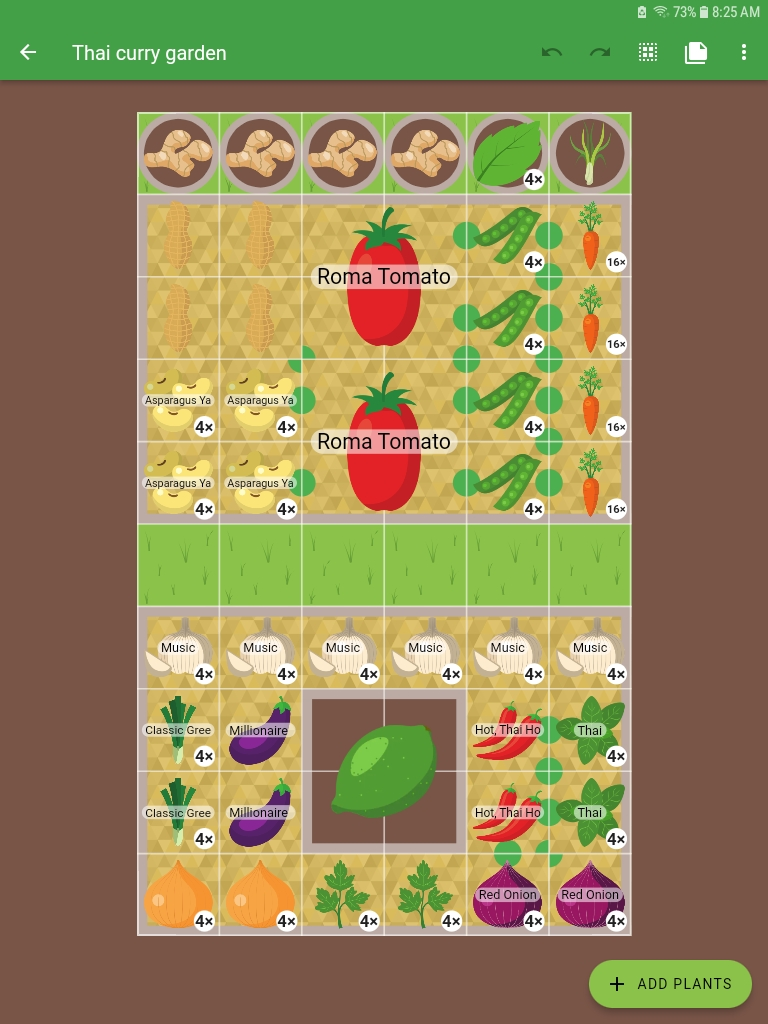
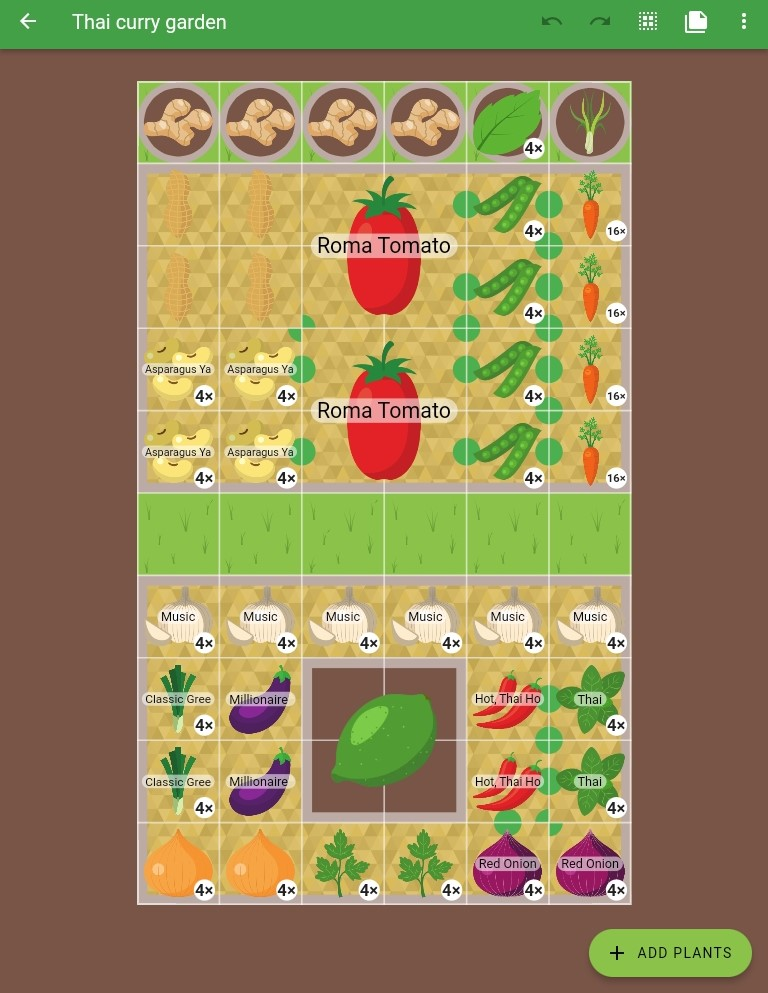
Update Blog post “curry-garden-plan/index”

diff --git a/content/posts/curry-garden-plan/index.md b/content/posts/curry-garden-plan/index.md
@@ -15,7 +15,7 @@ alt = "A plate with a curry dish surrounded by fresh vegetables and a tablet sho
 +++
 While there are many factors to consider when planning a garden, it's important to plan based on the types of dishes you and your family enjoy preparing. If you and your family enjoy cooking food with a global flair, you might want to consider planning a ‘curry garden’.
 
-‘Curry’ is actually a loose, catch-all term that doesn’t properly refer to any specific dish. In its originating culture, each dish would have its own unique name. That being said, many dishes that could be loosely grouped as ‘curry-style’ dishes can be created using many of the same core plants in the garden. <Add intro to plans>
+‘Curry’ is actually a loose, catch-all term that doesn’t properly refer to any specific dish. In its originating culture, each dish would have its own unique name. That being said, many dishes that could be loosely grouped as ‘curry-style’ dishes can be created using many of the same core plants in the garden. Let's look at a few ways you can plan a curry-themed garden in [Planter](https://planter.garden/gardens).
 
 ## Curry garden base plan
 
@@ -28,15 +28,15 @@ Our sample curry garden base plan is filled with uber-versatile plants that form
 * Tomatoes
 * Onions
 
-![Screenshot of a curry garden plan in Planter](curry-garden.jpg)
+![Screenshot of a curry garden plan in Planter](thai-curry-garden.jpg)
 
-Garlic and cooking onions were placed on the outside because they are slow growers and need to be harvested by pulling or forking them out of the soil. Two hot pepper plants might not seem like a lot, but they’ll likely be prolific enough to provide your family with ample chili harvests (of course if you’re major spice lovers feel free to add more!) While cilantro is associated with cuisines from some of the hotter parts of the world, it actually can’t take the heat all that well and has a tendency to bolt and go bitter. Because of this, you might want to plan to plant your cilantro in [successions](https://blog.planter.garden/posts/succession-planting-for-nonstop-harvests/).
+Garlic and cooking onions were placed on the outside because they are slow growers and need to be harvested by pulling or forking them out of the soil. Two hot pepper plants might not seem like a lot, but they’ll likely be prolific enough to provide your family with ample chili harvests (of course if you’re major spice lovers feel free to add more!) While cilantro is associated with cuisines from some of the hotter parts of the world, it actually can’t take the heat all that well and has a tendency to [bolt](https://blog.planter.garden/posts/plant-bolting-a-seedy-situation/) and go bitter. Because of this, you might want to plan to plant your cilantro in [successions](https://blog.planter.garden/posts/succession-planting-for-nonstop-harvests/).
 
-Roma tomatoes were chosen because they are a nice meaty tomato that tastes delicious cooked into sauces. Ginger is separated in containers because a) it has a long growing season and needs to be started indoors well in advance if you live in a cooler climate and b) the containers can be moved and positioned around the garden so the plants receive dappled sun (they love the heat but not direct, scorching sunlight).
+Roma tomatoes were chosen because they are a nice meaty tomato that can be used to create delicious sauces. Ginger is added in containers because a) it grows slowly and needs to be started indoors well in advance if you live in a cooler climate and b) the containers can be moved and positioned around the garden so the plants receive dappled sun- ginger loves the heat but not direct, scorching sunlight.
 
 When choosing locations for these plants in your own plan, be sure to position them so they’ll be easily accessible for harvesting and where they won't shade each other out unintentionally. 
 
-If you have a bit more garden space to play with, consider branching out into some more specific cuisines:
+If you have a bit more garden space to play with, consider branching out into some specific cuisines:
 
 ## Thai curry garden plan
 
@@ -57,26 +57,26 @@ Thai food is vibrant and features an array of different veggies. To prepare some
 
 The Thai curry garden plan incorporates most of the plants from the base curry garden plan. Serrano chiles were swapped for Thai chiles, and more garlic and onions were added. A pathway was left between the two garden areas to allow for access to tend and harvest the plants. Lemongrass is included as a unique container plant- be sure to give it a head start indoors if you’re growing in a cooler climate. Mint was also kept in a container to prevent it from spreading and taking over the entire garden! Basil plays more nicely so its OK to incorporate right into the garden bed. If possible, try to find Thai varieties of mint and basil to offer a more authentic flavor. 
 
-For something slightly more adventurous peanuts and a dwarf lime were added to the plan. Peanuts can grow well even in northern climates as long as you select an appropriate variety and ensure they are planted with enough time to mature. Limes on the other hand are frost sensitive, but dwarf varieties can be grown as container plants that can be brought inside over winter. If this is too much work, forgo the lime and plant something else instead- just be sure not to fill the middle of the garden with plants that will be hard to reach.
+For something slightly more adventurous peanuts and a dwarf lime were added to the plan. Peanuts can grow well even in northern climates as long as you select an appropriate variety and ensure they are planted with enough time to mature. Limes on the other hand are frost sensitive, but dwarf varieties can be grown as container plants that can be brought inside over winter. If this seems like too much work, forgo the lime and plant something else instead- just be sure not to fill the middle of the garden with plants that will be hard to reach.
 
 ## Indian curry garden plan
 
 ![A bowl of Indian curry with a cilantro leaf on top surrounded by Indian curry ingredients](indian-curry.jpg)
 
-Flipping over to a different cuisine entirely, the Indian curry garden plan still works off the same base garden, but includes some additional ingredients favored in Indian cooking:
+The Indian curry garden plan also works off the same base curry garden plan, but includes some unique ingredients favored in Indian cooking:
 
 * Turmeric
 * Cauliflower
 * Potatoes
 * Okra
 * Kidney beans
-* Mustard seed
+* Mustard
 * Spinach
 
 ![A screenshot of an Indian curry garden plan in Planter](indian-curry-garden.jpg)
 
-Turmeric is a rhizomatous plant that grows similarly to ginger. Since turmeric isn’t available in Planter (yet!) I’ve taken the easy way out and just created a ‘variety’ of ginger called turmeric. Like ginger, the turmeric is grown in pots so it can be started well in advance and moved around in the garden to capture the perfect balance of sun and shade.
+Turmeric is a rhizomatous plant (i.e., a plant that spreads by rhizomes), similar to ginger. Since turmeric isn’t available in Planter (yet!) one workaround is to create a custom variety of ginger and name it turmeric (turmeric isn't technically a ginger variety but this is just a quick fix). Like ginger, turmeric is grown in pots so it can be started well in advance and moved around in the garden to capture the perfect balance of sun and shade.
 
-Cauliflower and potatoes are included in the plan as core ingredients in the popular and delicious ‘aloo gobi’ dish. Okra is added as a key component of ‘bhindi masala’, and kidney beans are added to create delicious ‘rajma’. With drying beans you’ll want to have several plants to get a yield that is substantial enough to make a bean-based dish like rajma. Rounding out the list we have spinach and mustard- spinach can be used to make a mouth-watering ‘saag paneer’ and along with mustard and other greens in delicious ‘saag’ curries. If your mustard goes to seed no worries- mustard seed also features as a key spice in many Indian dishes.
+Cauliflower and potatoes are included in the plan as core ingredients in the popular and delicious dish ‘aloo gobi’. Okra is added as the key component of ‘bhindi masala’, and the kidney beans can be used to prepare delicious ‘rajma’. With drying beans you’ll want to have several plants to get a yield that is substantial enough to make bean-based dishes. Rounding out the list we have spinach and mustard- spinach can be used to make a mouth-watering ‘saag paneer’ and along with mustard greens (and other mixed greens) can be used to create delicious ‘saag’ curries. And if your mustard [bolts](https://blog.planter.garden/posts/plant-bolting-a-seedy-situation/) and goes to seed no worries- mustard seed is also a key spice in many Indian dishes!
 
 We hope these curry garden plans have provided some inspiration to plan a fun and practical cuisine-themed garden! Having all the veggies at hand to create a whole range of dishes is important to be able to make the best use of your garden produce in the kitchen. The best part is [Planter](https://planter.garden/gardens) makes the process of playing around with all the different garden design possibilities easy and fun!
